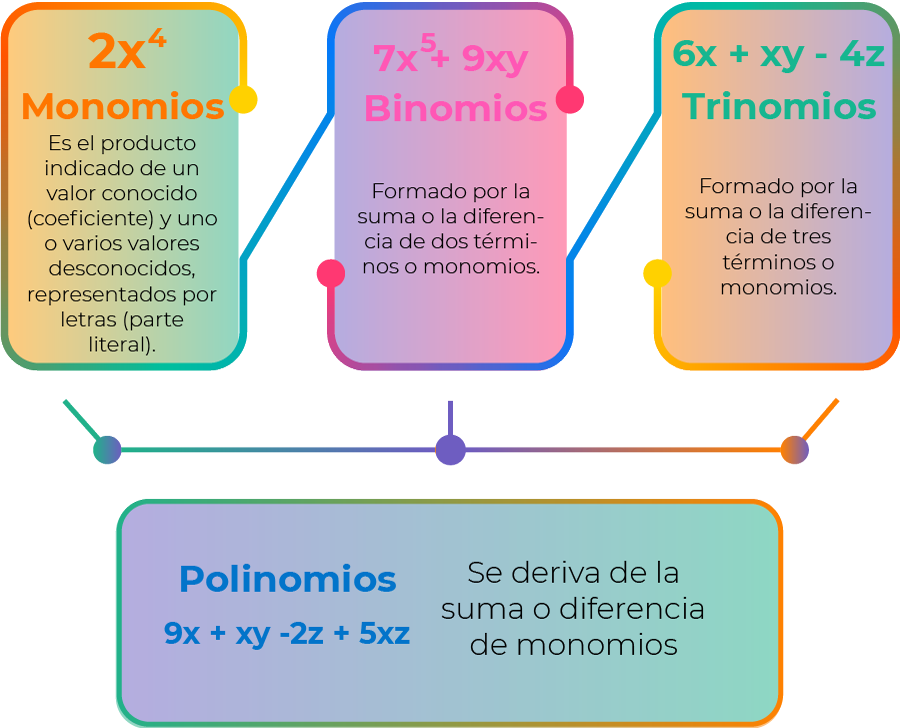
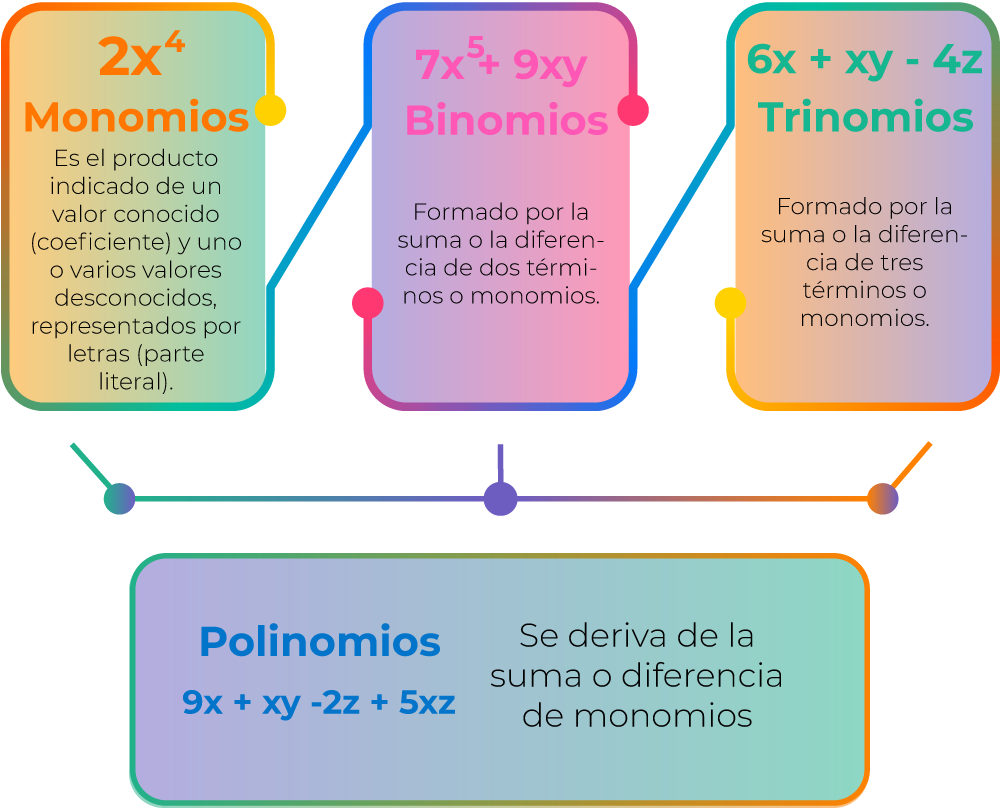
Unidad 1 reflexivo cambio img

diff --git a/reflexivo/unidad-1.html b/reflexivo/unidad-1.html
@@ -118,9 +118,9 @@
                   </div>
                   <div class="card-body p-5">
                         <div class="row justify-content-center py-3">
-                        
-                        <img src="../img/mapa.png" alt="Imagen expresion algebraica" width="80%">
-                         
+                        <div class="col-12 col-md-10">
+                        <img src="../img/mapa.png" alt="Imagen expresion algebraica" width="100%">
+                         </div>
                         </div>
                     <hr class="my-4">
                     <h5 class="card-title text-primary">Signo</h5>
@@ -156,7 +156,9 @@
                      </div>
                      <div class="card-body p-5">
                      <div class="row justify-content-center py-3">
-                        <img src="../img/natural-algebraico.png" alt="Imagen natural-algebraico" width="50%">  
+                      <div class="col-12 col-md-7">
+                        <img src="../img/natural-algebraico.png" alt="Imagen natural-algebraico" width="100%">  
+                        </div>
                         </div>
                         </div>
             </div>
@@ -180,7 +182,9 @@
                      </div>
                      <div class="card-body p-5">
                      <div class="row justify-content-center py-3">
-                        <img src="../img/clasificacion.png" alt="Imagen natural-algebraico" width="70%">  
+                      <div class="col-12 col-md-8">
+                        <img src="../img/clasificacion.png" alt="Imagen natural-algebraico" width="100%">  
+                        </div>
                         </div>
                         </div>
             </div>
